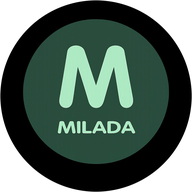
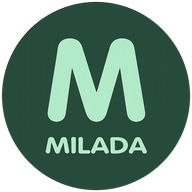
Add files via upload

diff --git a/src/components/sections/HeroSection.tsx b/src/components/sections/HeroSection.tsx
@@ -15,7 +15,7 @@ const slides = [
     eyebrow: "Производство с 2012 года",
     title: "Мебельные фасады MILADA",
     subtitle: "ПВХ, эмаль, HPL, камень. Собственное производство в Ульяновске, индивидуальный раскрой.",
-    image: opt("https://res.cloudinary.com/dx9tcpnkg/image/upload/v1778319588/ChatGPT_Image_9_%D0%BC%D0%B0%D1%8F_2026_%D0%B3._13_39_19_ncqdti.png"),
+    image: opt("https://res.cloudinary.com/dx9tcpnkg/image/upload/v1778318952/ChatGPT_Image_9_%D0%BC%D0%B0%D1%8F_2026_%D0%B3._13_28_01_1_hspb3e.png"),
   },
   {
     eyebrow: "Более 100 декоров",

diff --git a/src/components/layout/Footer.tsx b/src/components/layout/Footer.tsx
@@ -12,7 +12,7 @@ export default function Footer() {
         <div className="grid grid-cols-1 md:grid-cols-2 lg:grid-cols-4 gap-10">
           <div>
             <Link href="/" className="flex items-center gap-3">
-              <Image src="/logo.png" alt="MILADA" width={48} height={48} className="rounded-full" quality={100} />
+              <Image src="/logo.png" alt="MILADA" width={48} height={48} quality={100} />
               <span className="font-semibold tracking-wider text-white text-lg">MILADA</span>
             </Link>
             <p className="mt-4 text-sm leading-relaxed text-white/50">

diff --git a/src/components/layout/Header.tsx b/src/components/layout/Header.tsx
@@ -42,7 +42,6 @@ export default function Header() {
               alt="MILADA"
               width={48}
               height={48}
-              className="rounded-full"
               priority
               quality={100}
             />
